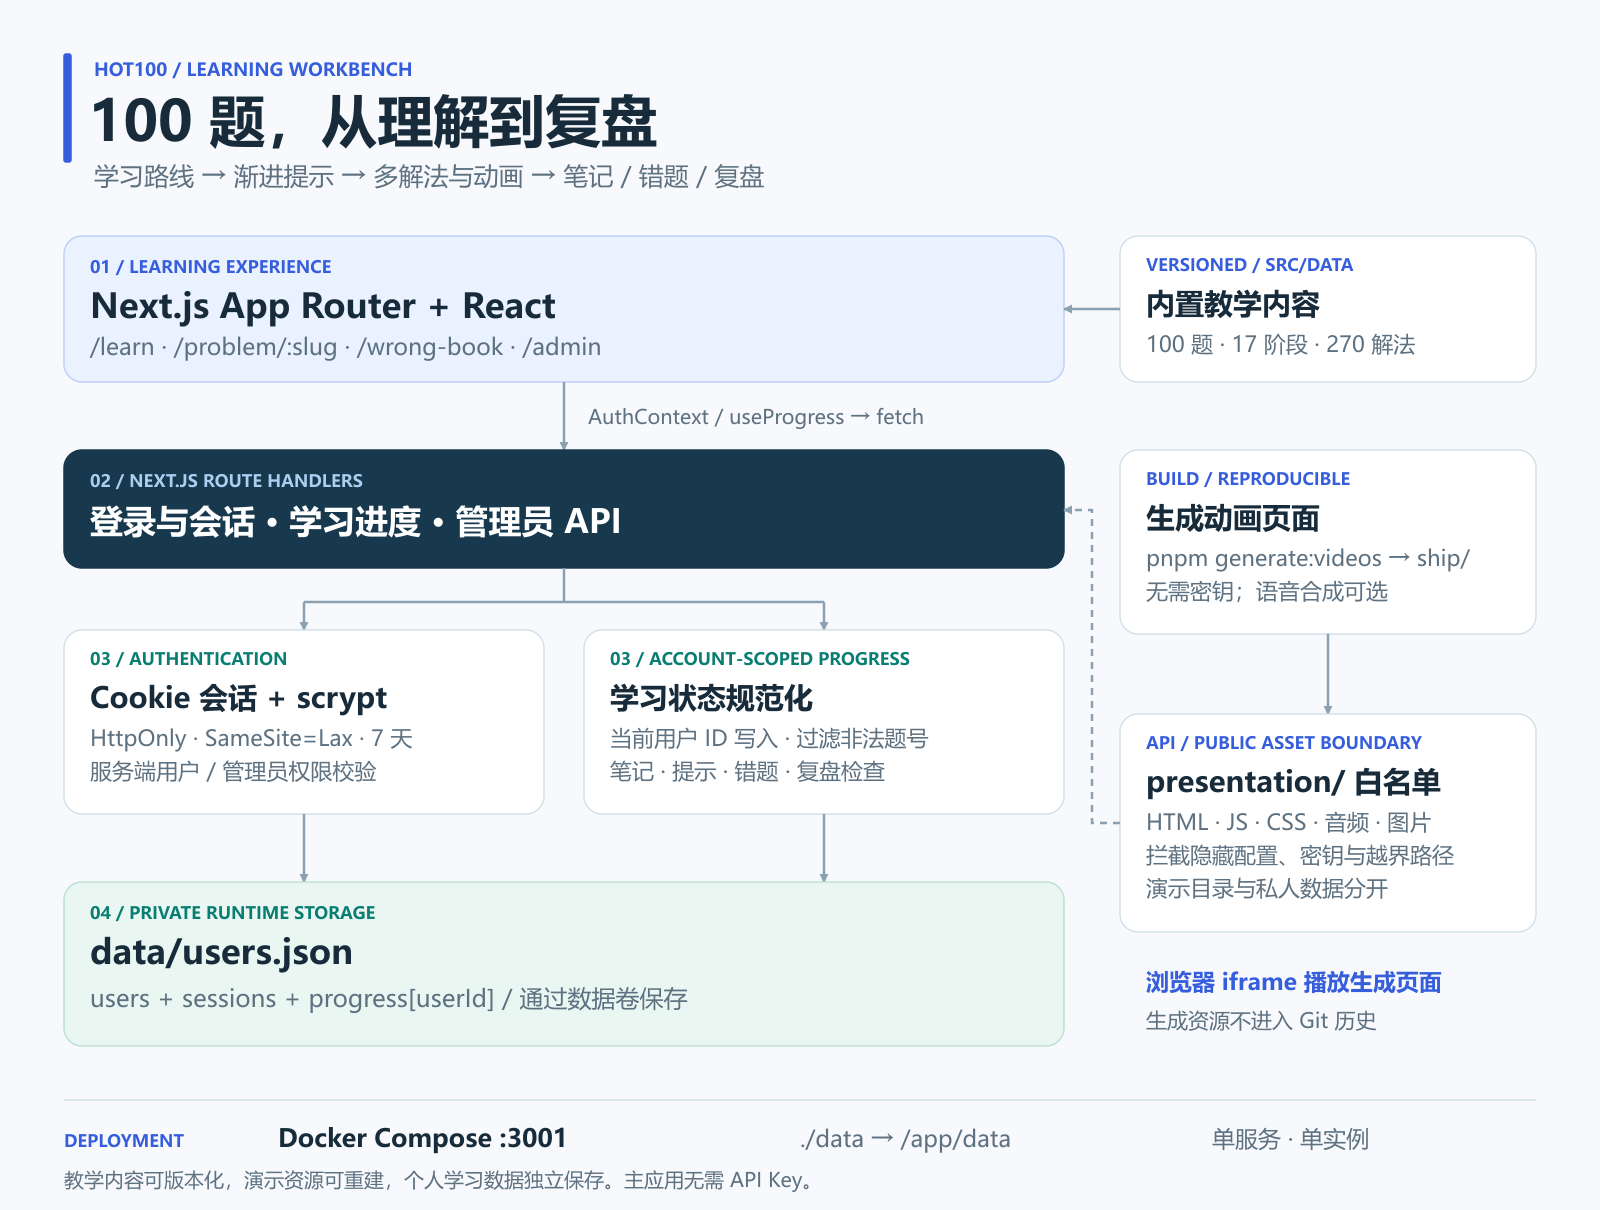
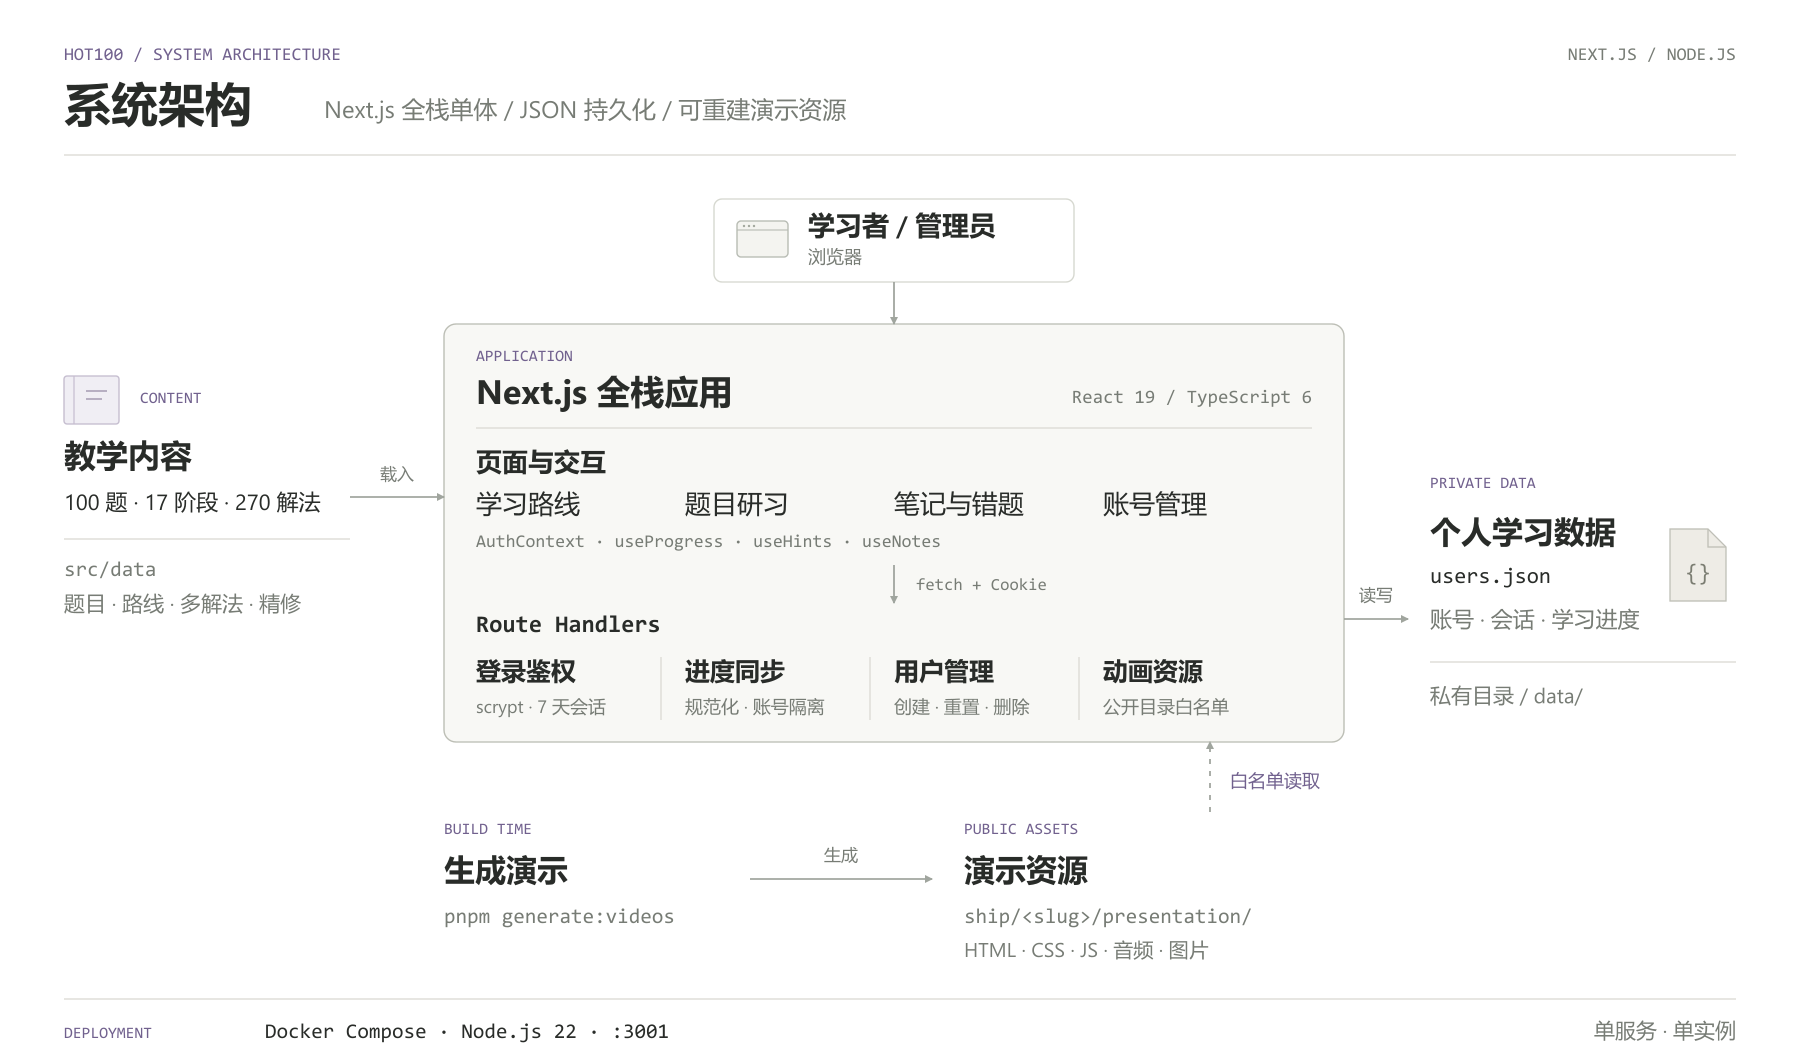
Redraw architecture with a clean editorial system layout

diff --git a/docs/assets/generate_architecture.py b/docs/assets/generate_architecture.py
@@ -1,110 +1,190 @@
-"""Generate the editable README architecture using Python's standard library."""
+"""Draw the README architecture as an editable, restrained editorial diagram.
+
+Run: python docs/assets/generate_architecture.py
+The PNG alongside the SVG is a raster export for consistent GitHub rendering.
+"""
 
 from pathlib import Path
-from xml.etree.ElementTree import Element, SubElement, ElementTree, indent
+from xml.etree.ElementTree import Element, SubElement, ElementTree, indent, tostring
 
 
-INK = "#172B3A"
-MUTED = "#5D7181"
-BLUE = "#365EDC"
-TEAL = "#087D71"
+WIDTH, HEIGHT = 1800, 1060
+INK = "#292C29"
+MUTED = "#777C75"
+RULE = "#DDDCD6"
+ACCENT = "#71618E"
+MONO = "Consolas, SFMono-Regular, monospace"
 
 
 def node(parent, tag, **attributes):
-    """Translate Python attribute names into SVG attributes."""
+    """Normalize Python attribute names without constructing raw SVG strings."""
     return SubElement(parent, tag, {name.replace("_", "-"): str(value) for name, value in attributes.items()})
 
 
-def text(parent, x, y, value, size=24, color=INK, weight=400):
-    """Use explicit baselines for consistent mixed Chinese/English text."""
-    item = node(parent, "text", x=x, y=y, fill=color, font_size=size, font_weight=weight)
+def text(parent, x, y, value, size=24, color=INK, weight=400, mono=False, anchor="start"):
+    """Keep labels on explicit baselines for predictable Chinese typography."""
+    options = {"x": x, "y": y, "fill": color, "font_size": size, "font_weight": weight, "text_anchor": anchor}
+    if mono:
+        options["font_family"] = MONO
+    item = node(parent, "text", **options)
     item.text = value
 
 
-def box(parent, x, y, width, height, fill="#FFFFFF", stroke="#D4E0E7", radius=18):
-    """Draw a flat module or system boundary."""
-    return node(parent, "rect", x=x, y=y, width=width, height=height, rx=radius, fill=fill, stroke=stroke, stroke_width=1.5)
+def line(parent, x1, y1, x2, y2, color=RULE, width=1.4):
+    """Draw quiet structural rules; connections are handled separately."""
+    node(parent, "line", x1=x1, y1=y1, x2=x2, y2=y2, stroke=color, stroke_width=width)
 
 
-def arrow(parent, path, dashed=False):
-    """Keep integrations readable with orthogonal directional paths."""
-    options = {"d": path, "fill": "none", "stroke": "#8BA1B2", "stroke_width": 2.5, "marker_end": "url(#arrow)", "stroke_linejoin": "round"}
+def rectangle(parent, x, y, width, height, fill="#FFFFFF", stroke=RULE, radius=10):
+    """Reserve boxes for real system boundaries rather than every label."""
+    return node(parent, "rect", x=x, y=y, width=width, height=height, rx=radius, fill=fill, stroke=stroke, stroke_width=1.4)
+
+
+def arrow(parent, path, dashed=False, color="#A0A59E"):
+    """Use orthogonal routing and one arrowhead size throughout the diagram."""
+    options = {"d": path, "fill": "none", "stroke": color, "stroke_width": 1.8, "marker_end": "url(#arrow)", "stroke_linejoin": "round"}
     if dashed:
-        options["stroke_dasharray"] = "7 6"
-    return node(parent, "path", **options)
+        options["stroke_dasharray"] = "5 7"
+    node(parent, "path", **options)
 
 
-def card(parent, x, y, width, height, label, title, rows, accent=TEAL):
-    """Use a shared label/title/body hierarchy across all modules."""
-    box(parent, x, y, width, height)
-    text(parent, x + 26, y + 35, label, 17, accent, 700)
-    text(parent, x + 26, y + 78, title, 29, INK, 700)
-    for index, row in enumerate(rows):
-        text(parent, x + 26, y + 116 + index * 33, row, 22, MUTED)
+def document_icon(parent, x, y):
+    """A folded document identifies JSON file storage, not a database server."""
+    node(parent, "path", d=f"M{x} {y} h38 l18 18 v54 h-56 z", fill="#EEECE6", stroke="#BEBFB6", stroke_width=1.3)
+    node(parent, "path", d=f"M{x + 38} {y} v18 h18", fill="none", stroke="#BEBFB6", stroke_width=1.3)
+    text(parent, x + 28, y + 51, "{}", 23, "#7B7D72", 400, True, "middle")
+
+
+def book_icon(parent, x, y):
+    """Use a small book spine to distinguish versioned teaching content."""
+    rectangle(parent, x, y, 55, 48, "#F0EEF4", "#C5BDCF", 3)
+    line(parent, x + 10, y, x + 10, y + 48, "#C5BDCF", 1.2)
+    line(parent, x + 22, y + 15, x + 43, y + 15, "#ADA4BA", 1.7)
+    line(parent, x + 22, y + 23, x + 38, y + 23, "#ADA4BA", 1.7)
+
+
+def browser_icon(parent, x, y):
+    """A minimal browser window is a semantic actor icon, not mock UI chrome."""
+    rectangle(parent, x, y, 51, 36, "#F4F4F0", "#B7BBB3", 4)
+    line(parent, x, y + 9, x + 51, y + 9, "#B7BBB3", 1.1)
+    for offset in (7, 12, 17):
+        node(parent, "circle", cx=x + offset, cy=y + 5, r=1.2, fill="#A1A79C")
+
+
+def draw_header(svg):
+    """A compact title leaves most of the canvas to the architecture."""
+    text(svg, 64, 60, "HOT100 / SYSTEM ARCHITECTURE", 18, ACCENT, 400, True)
+    text(svg, 64, 121, "系统架构", 47, INK, 700)
+    text(svg, 324, 118, "Next.js 全栈单体  /  JSON 持久化  /  可重建演示资源", 24, MUTED)
+    text(svg, 1736, 60, "NEXT.JS / NODE.JS", 18, MUTED, 400, True, "end")
+    line(svg, 64, 155, 1736, 155)
+
+
+def draw_application(svg):
+    """Show the UI and server routes as two layers of one application."""
+    rectangle(svg, 444, 324, 900, 418, "#F8F8F5", "#BCBEB5", 12)
+    text(svg, 476, 361, "APPLICATION", 16, ACCENT, 400, True)
+    text(svg, 476, 404, "Next.js 全栈应用", 34, INK, 700)
+    text(svg, 1312, 403, "React 19 / TypeScript 6", 19, MUTED, 400, True, "end")
+    line(svg, 476, 428, 1312, 428)
+
+    text(svg, 476, 471, "页面与交互", 26, INK, 700)
+    for x, label in [(476, "学习路线"), (685, "题目研习"), (894, "笔记与错题"), (1103, "账号管理")]:
+        text(svg, x, 513, label, 26, INK)
+    text(svg, 476, 547, "AuthContext · useProgress · useHints · useNotes", 18, MUTED, 400, True)
+    arrow(svg, "M 894 565 V 603")
+    text(svg, 916, 590, "fetch + Cookie", 17, MUTED, 400, True)
+
+    text(svg, 476, 632, "Route Handlers", 24, INK, 700, True)
+    sections = [
+        (476, "登录鉴权", "scrypt · 7 天会话"),
+        (685, "进度同步", "规范化 · 账号隔离"),
+        (894, "用户管理", "创建 · 重置 · 删除"),
+        (1103, "动画资源", "公开目录白名单"),
+    ]
+    for index, (x, title, detail) in enumerate(sections):
+        text(svg, x, 680, title, 25, INK, 600)
+        text(svg, x, 713, detail, 18, MUTED)
+        if index:
+            line(svg, x - 24, 657, x - 24, 720)
+
+
+def draw_inputs(svg):
+    """Keep the browser actor and versioned content outside the service boundary."""
+    rectangle(svg, 714, 199, 360, 83, "#FFFFFF", "#D6D8D0", 8)
+    browser_icon(svg, 737, 221)
+    text(svg, 808, 235, "学习者 / 管理员", 27, INK, 600)
+    text(svg, 808, 263, "浏览器", 18, MUTED)
+    arrow(svg, "M 894 282 V 324")
+
+    book_icon(svg, 64, 376)
+    text(svg, 140, 403, "CONTENT", 16, ACCENT, 400, True)
+    text(svg, 64, 467, "教学内容", 32, INK, 700)
+    text(svg, 64, 510, "100 题 · 17 阶段 · 270 解法", 22, INK)
+    line(svg, 64, 539, 350, 539)
+    text(svg, 64, 576, "src/data", 21, MUTED, 400, True)
+    text(svg, 64, 611, "题目 · 路线 · 多解法 · 精修", 21, MUTED)
+    arrow(svg, "M 350 497 H 444")
+    text(svg, 397, 480, "载入", 17, MUTED, 400, False, "middle")
+
+
+def draw_storage(svg):
+    """Keep persistence visually distinct from publicly served presentation files."""
+    text(svg, 1430, 488, "PRIVATE DATA", 16, ACCENT, 400, True)
+    text(svg, 1430, 543, "个人学习数据", 31, INK, 700)
+    text(svg, 1430, 583, "users.json", 22, INK, 400, True)
+    document_icon(svg, 1670, 529)
+    text(svg, 1430, 627, "账号  ·  会话  ·  学习进度", 22, MUTED)
+    line(svg, 1430, 662, 1736, 662)
+    text(svg, 1430, 703, "私有目录 / data/", 21, MUTED)
+    arrow(svg, "M 1344 619 H 1408")
+    text(svg, 1376, 601, "读写", 17, MUTED, 400, False, "middle")
+
+
+def draw_generation(svg):
+    """Use a separate, shorter route for generated public assets."""
+    text(svg, 444, 834, "BUILD TIME", 16, ACCENT, 400, True)
+    text(svg, 444, 881, "生成演示", 31, INK, 700)
+    text(svg, 444, 923, "pnpm generate:videos", 21, MUTED, 400, True)
+
+    arrow(svg, "M 750 879 H 932")
+    text(svg, 841, 861, "生成", 17, MUTED, 400, False, "middle")
+    text(svg, 964, 834, "PUBLIC ASSETS", 16, ACCENT, 400, True)
+    text(svg, 964, 881, "演示资源", 31, INK, 700)
+    text(svg, 964, 923, "ship/<slug>/presentation/", 21, MUTED, 400, True)
+    text(svg, 964, 957, "HTML · CSS · JS · 音频 · 图片", 20, MUTED)
+    arrow(svg, "M 1210 812 V 742", dashed=True)
+    text(svg, 1230, 787, "白名单读取", 18, ACCENT)
 
 
 def build_svg():
-    """Compose the actual pages, account storage and generated-asset boundary."""
-    svg = Element("svg", {"xmlns": "http://www.w3.org/2000/svg", "width": "1600", "height": "1210", "viewBox": "0 0 1600 1210", "font-family": "Microsoft YaHei, Noto Sans CJK SC, Arial, sans-serif"})
-    node(svg, "title").text = "Hot100 学习助手系统架构"
-    node(svg, "desc").text = "Next.js 全栈单体提供学习、错题、笔记和管理页面，通过 Cookie 会话保护 API，使用每账号 JSON 进度。教学内容版本化，动画由脚本生成，仅公开 presentation 白名单资源。"
+    """Compose the graphic from independently editable semantic groups."""
+    svg = Element("svg", {"xmlns": "http://www.w3.org/2000/svg", "width": str(WIDTH), "height": str(HEIGHT), "viewBox": f"0 0 {WIDTH} {HEIGHT}", "font-family": "Segoe UI, Microsoft YaHei, sans-serif"})
+    node(svg, "title").text = "Hot100 学习助手：系统架构"
+    node(svg, "desc").text = "浏览器访问 Next.js 全栈应用。页面加载版本化教学内容，服务端通过账号会话保存个人学习数据。构建脚本单独生成演示资源，资源路由按公开白名单读取。"
     definitions = node(svg, "defs")
-    marker = node(definitions, "marker", id="arrow", markerWidth=9, markerHeight=9, refX=8, refY=4.5, orient="auto", markerUnits="userSpaceOnUse")
-    node(marker, "path", d="M 0 0 L 9 4.5 L 0 9 z", fill="#8BA1B2")
-    box(svg, 0, 0, 1600, 1210, "#F7F9FC", "#F7F9FC", 0)
-    box(svg, 64, 54, 7, 108, BLUE, BLUE, 2)
-    text(svg, 94, 76, "HOT100 / LEARNING WORKBENCH", 18, BLUE, 700)
-    text(svg, 89, 141, "100 题，从理解到复盘", 56, INK, 700)
-    text(svg, 94, 185, "学习路线  →  渐进提示  →  多解法与动画  →  笔记 / 错题 / 复盘", 25, MUTED)
-
-    box(svg, 64, 236, 1000, 146, "#EAF1FF", "#BFD1F7")
-    text(svg, 90, 273, "01 / LEARNING EXPERIENCE", 17, BLUE, 700)
-    text(svg, 90, 318, "Next.js App Router + React", 34, INK, 700)
-    text(svg, 90, 355, "/learn  ·  /problem/:slug  ·  /wrong-book  ·  /admin", 23, MUTED)
-    card(svg, 1120, 236, 416, 146, "VERSIONED / SRC/DATA", "内置教学内容", ["100 题 · 17 阶段 · 270 解法"], BLUE)
-    arrow(svg, "M 1120 309 H 1064")
-
-    arrow(svg, "M 564 382 V 450")
-    text(svg, 588, 424, "AuthContext / useProgress → fetch", 20, MUTED)
-    box(svg, 64, 450, 1000, 118, "#17384D", "#17384D")
-    text(svg, 90, 487, "02 / NEXT.JS ROUTE HANDLERS", 17, "#AACFEF", 700)
-    text(svg, 90, 533, "登录与会话  ·  学习进度  ·  管理员 API", 33, "#FFFFFF", 700)
-
-    node(svg, "path", d="M 564 568 V 602 H 304 M 564 602 H 824", stroke="#8BA1B2", stroke_width=2.5, fill="none")
-    arrow(svg, "M 304 602 V 630")
-    arrow(svg, "M 824 602 V 630")
-    card(svg, 64, 630, 480, 184, "03 / AUTHENTICATION", "Cookie 会话 + scrypt", ["HttpOnly · SameSite=Lax · 7 天", "服务端用户 / 管理员权限校验"])
-    card(svg, 584, 630, 480, 184, "03 / ACCOUNT-SCOPED PROGRESS", "学习状态规范化", ["当前用户 ID 写入 · 过滤非法题号", "笔记 · 提示 · 错题 · 复盘检查"])
-
-    arrow(svg, "M 304 814 V 882")
-    arrow(svg, "M 824 814 V 882")
-    box(svg, 64, 882, 1000, 164, "#EAF6F1", "#BDDFD2")
-    text(svg, 90, 919, "04 / PRIVATE RUNTIME STORAGE", 17, TEAL, 700)
-    text(svg, 90, 964, "data/users.json", 34, INK, 700)
-    text(svg, 90, 1007, "users  +  sessions  +  progress[userId]      /      通过数据卷保存", 24, MUTED)
-
-    card(svg, 1120, 450, 416, 184, "BUILD / REPRODUCIBLE", "生成动画页面", ["pnpm generate:videos → ship/", "无需密钥；语音合成可选"], BLUE)
-    arrow(svg, "M 1328 634 V 714")
-    card(svg, 1120, 714, 416, 218, "API / PUBLIC ASSET BOUNDARY", "presentation/ 白名单", ["HTML · JS · CSS · 音频 · 图片", "拦截隐藏配置、密钥与越界路径", "演示目录与私人数据分开"], BLUE)
-    arrow(svg, "M 1120 823 H 1092 V 510 H 1064", True)
-    text(svg, 1146, 990, "浏览器 iframe 播放生成页面", 23, BLUE, 700)
-    text(svg, 1146, 1028, "生成资源不进入 Git 历史", 21, MUTED)
-
-    node(svg, "path", d="M 64 1100 H 1536", stroke="#D4E0E7", stroke_width=1.5)
-    text(svg, 64, 1147, "DEPLOYMENT", 17, BLUE, 700)
-    text(svg, 278, 1147, "Docker Compose  :3001", 25, INK, 700)
-    text(svg, 800, 1147, "./data → /app/data", 23, MUTED)
-    text(svg, 1212, 1147, "单服务 · 单实例", 23, MUTED)
-    text(svg, 64, 1187, "教学内容可版本化，演示资源可重建，个人学习数据独立保存。主应用无需 API Key。", 20, MUTED)
+    marker = node(definitions, "marker", id="arrow", markerWidth=8, markerHeight=8, refX=7, refY=4, orient="auto", markerUnits="userSpaceOnUse")
+    node(marker, "path", d="M 0 0 L 8 4 L 0 8 z", fill="#A0A59E")
+    node(svg, "rect", width=WIDTH, height=HEIGHT, fill="#FFFFFF")
+    draw_header(svg)
+    draw_application(svg)
+    draw_inputs(svg)
+    draw_storage(svg)
+    draw_generation(svg)
+    line(svg, 64, 999, 1736, 999)
+    text(svg, 64, 1038, "DEPLOYMENT", 16, ACCENT, 400, True)
+    text(svg, 265, 1038, "Docker Compose · Node.js 22 · :3001", 21, INK, 400, True)
+    text(svg, 1736, 1038, "单服务 · 单实例", 21, MUTED, 400, False, "end")
     return svg
 
 
 def main():
-    """Save the vector beside the README's raster export."""
+    """Save the native vector alongside its README-compatible PNG export."""
     target = Path(__file__).with_name("architecture.svg")
-    tree = ElementTree(build_svg())
-    indent(tree)
-    tree.write(target, encoding="utf-8", xml_declaration=True)
+    document = ElementTree(build_svg())
+    indent(document)
+    # Write bytes to keep line endings identical on Windows, Linux and macOS.
+    target.write_bytes(tostring(document.getroot(), encoding="utf-8", xml_declaration=True))
     print(target)
 
 

diff --git a/docs/validation.md b/docs/validation.md
@@ -17,7 +17,7 @@
 | 生产构建 | 通过 | Next.js 16.4.1 Turbopack，构建完成，114 个静态生成任务完成 |
 | 依赖审计 | 通过 | 最终锁文件 0 条已知漏洞告警 |
 | Compose 配置 | 通过 | 显式传入空 env 配置，`docker compose config --quiet` 成功 |
-| 架构图 | 通过 | SVG 导出 1600 × 1210 PNG，检查文字、边界和连线 |
+| 架构图 | 通过 | SVG 导出 1800 × 1060 PNG，检查文字、边界、连线与 README 缩放显示 |
 
 ## 实际环境
 
